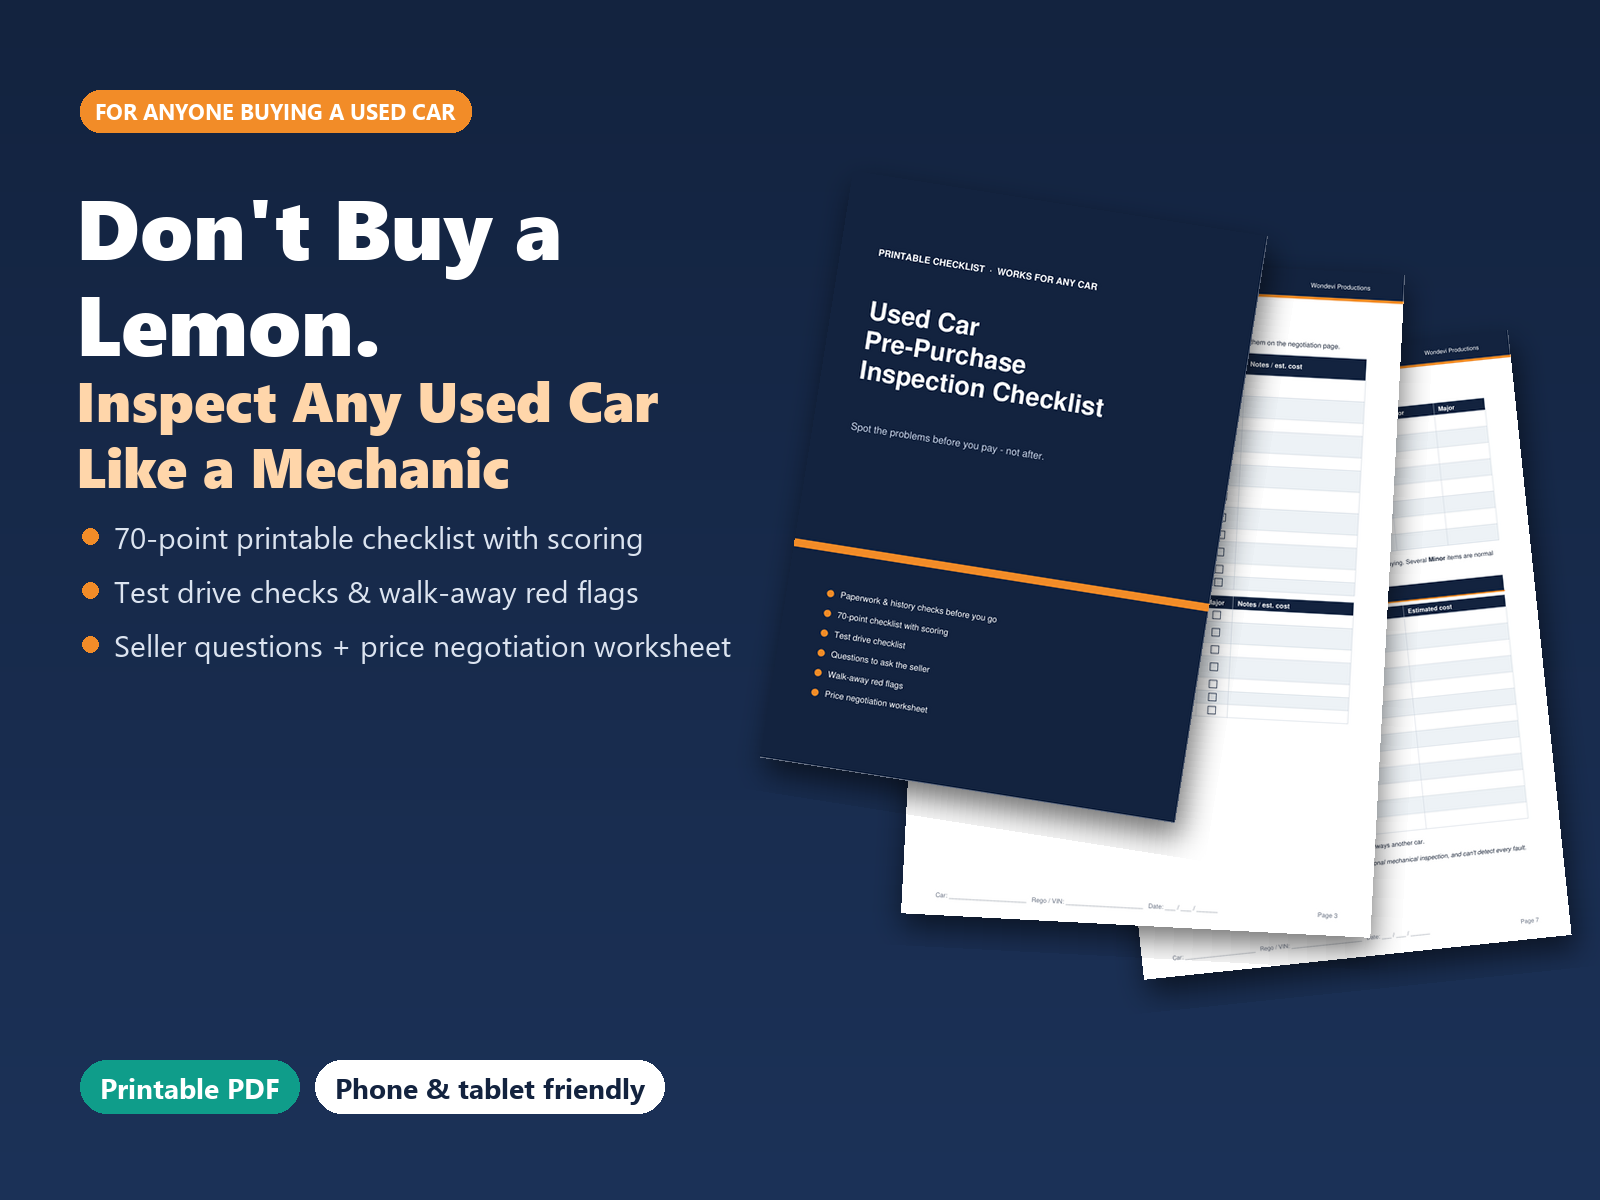
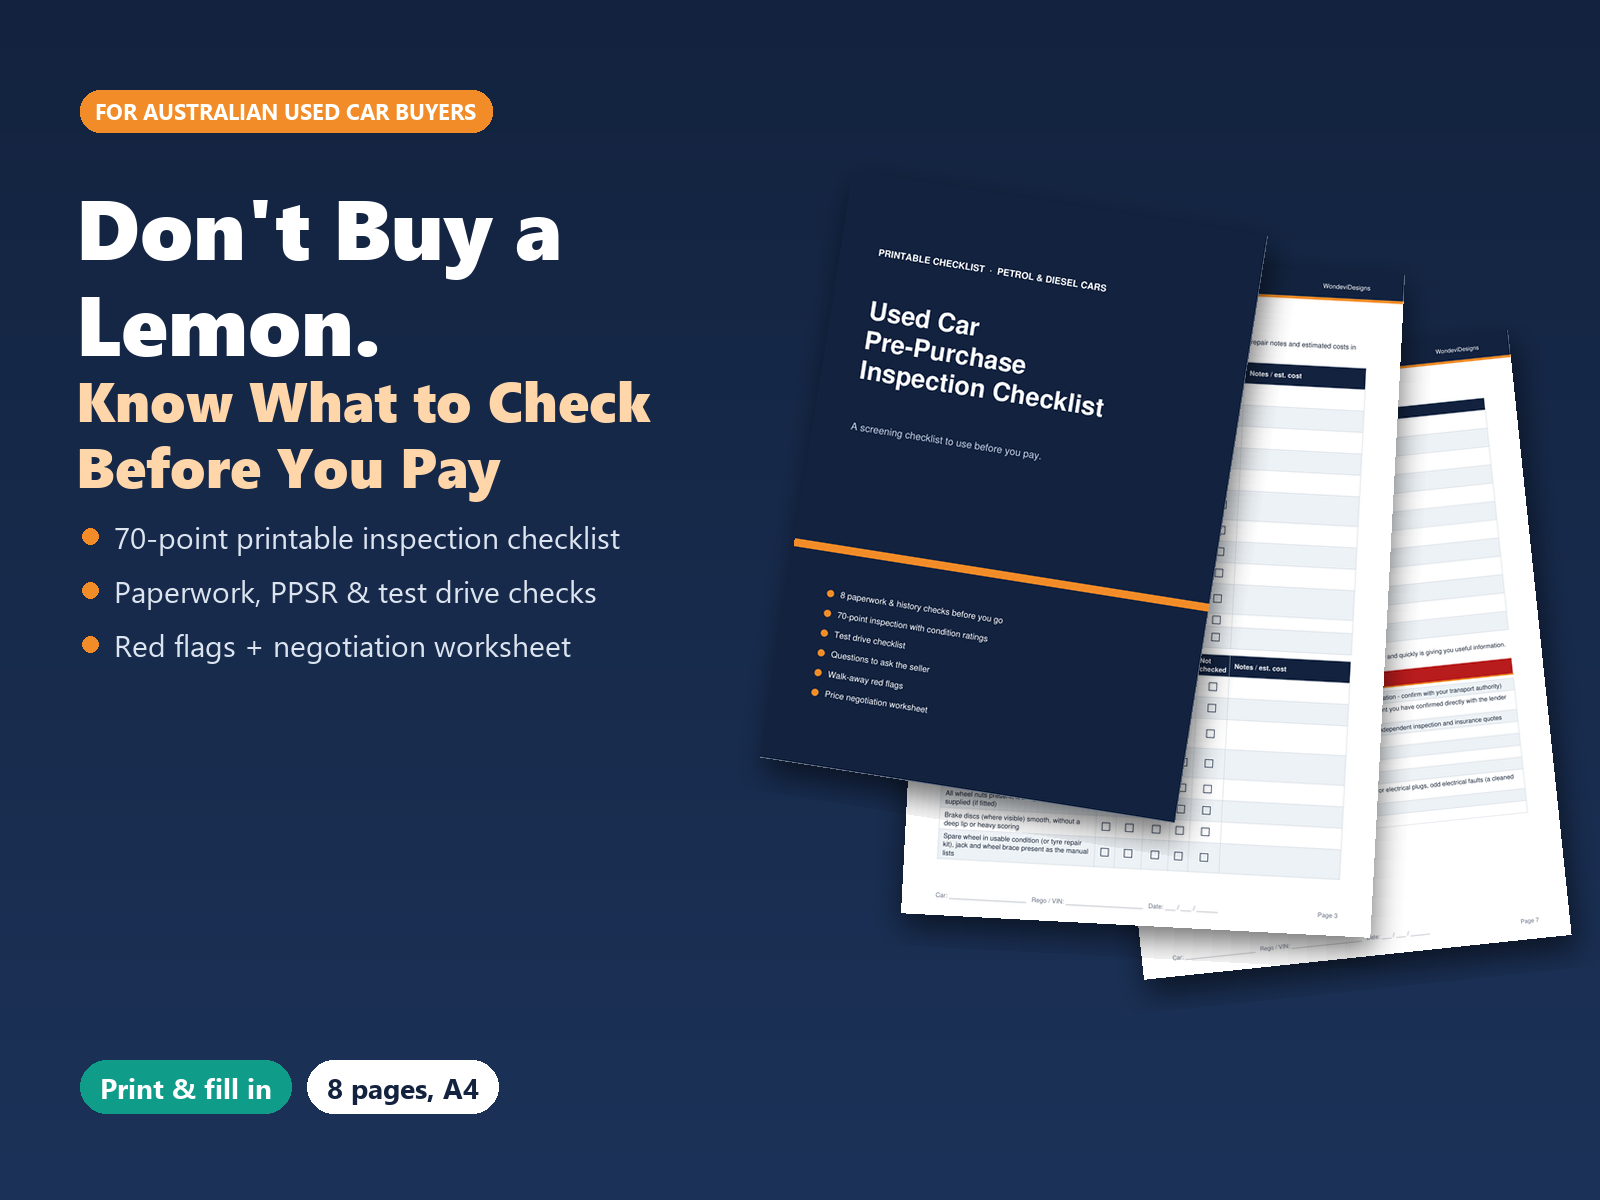
Used car pages: replace old cover (removed 'like a mechanic'/'phone & tablet' claims) with audited v5 cover; buy box text matches audited listing (8-page A4, 70-point, Australia)

diff --git a/used-car-test-drive-checklist.html b/used-car-test-drive-checklist.html
@@ -33,9 +33,9 @@ footer{color:var(--muted);font-size:14px;padding:30px 20px;border-top:1px solid 
 <p class="lead">A test drive of 20 minutes or more, including some highway driving, reveals problems you'll never see standing in a driveway. Use these 13 checks every time, and ask to start the car cold.</p>
 <table><tr><th></th><th>Check</th><th>What good looks like</th></tr><tr><td>&#9744;</td><td><b>Before you start</b></td><td>Check the engine is cold. Look for warning lights when you turn the key, and make sure they go out once it starts.</td></tr><tr><td>&#9744;</td><td><b>Pulling away</b></td><td>It should move off smoothly with no slipping, juddering or clunks.</td></tr><tr><td>&#9744;</td><td><b>Gear changes</b></td><td>Automatics: smooth changes with no flaring, slipping or harsh thumps. Manuals: no grinding, and the clutch shouldn't bite very high.</td></tr><tr><td>&#9744;</td><td><b>Steering</b></td><td>Straight line on a flat road with no pulling, and no heavy knocks at full lock.</td></tr><tr><td>&#9744;</td><td><b>Brakes</b></td><td>Stops straight with no pulsing, grinding or squeal. Test a firm stop where it's safe.</td></tr><tr><td>&#9744;</td><td><b>Suspension</b></td><td>No clunks or rattles over speed bumps and rough roads.</td></tr><tr><td>&#9744;</td><td><b>Highway speed</b></td><td>No vibration through the wheel or seat at 100 km/h.</td></tr><tr><td>&#9744;</td><td><b>Noises</b></td><td>No whine, hum or drone that rises with speed (wheel bearings, differential).</td></tr><tr><td>&#9744;</td><td><b>Engine</b></td><td>Smooth acceleration with no hesitation or misfire, and no smoke in the mirror.</td></tr><tr><td>&#9744;</td><td><b>Temperature</b></td><td>The gauge settles in the middle and stays there.</td></tr><tr><td>&#9744;</td><td><b>Hill start</b></td><td>The handbrake holds the car on a slope.</td></tr><tr><td>&#9744;</td><td><b>Electrics</b></td><td>Air con blows cold. Check cruise control, indicators and the reversing camera.</td></tr><tr><td>&#9744;</td><td><b>After the drive</b></td><td>Look under the car for fresh drips, smell for burning, and check for smoke at idle.</td></tr></table>
 <p>The test drive is only one part. Paperwork, rust, leaks and crash repairs need checking too. See the <a href="used-car-inspection-checklist.html">15-point used car inspection checklist</a>.</p>
-<div class="cta"><img src="car-cover.png" alt="Used car pre-purchase inspection checklist printable PDF" loading="lazy">
+<div class="cta"><img src="car-cover.png" alt="Used car pre-purchase inspection checklist, printable 8-page A4 PDF for Australian buyers" loading="lazy">
 <div><h2 style="color:#fff;margin-top:0">Take the full checklist with you</h2>
-<p>The printable <b>Used Car Pre-Purchase Inspection Checklist</b> (A$9) has paperwork and history checks, a scored inspection with OK / Minor / Major ratings, 12 questions to ask the seller, walk-away red flags and a price negotiation worksheet. It's a 7-page PDF. It does not replace a mechanic's inspection.</p>
+<p>The printable <b>Used Car Pre-Purchase Inspection Checklist</b> (A$9, 8-page A4 PDF) has 8 paperwork and history checks (including PPSR), a 70-point inspection you rate OK, Minor or Major, questions to ask the seller, walk-away red flags and a price negotiation worksheet. Made for petrol and diesel cars, utes and SUVs in Australia. A screening tool, not a replacement for a professional pre-purchase inspection.</p>
 <a class="btn" href="https://wondevi.gumroad.com/l/used-car-inspection-checklist" rel="nofollow">Get the checklist - A$9</a></div></div></main>
 <footer><div class="wrap">&copy; Wondevi Productions. Free tools and guides for mobile mechanics, tradies and sole traders. Figures are examples. Check your own costs, and your tax obligations with your accountant.</div></footer>
 <script data-goatcounter="https://wondeviproductions.goatcounter.com/count" async src="//gc.zgo.at/count.js"></script><script>document.addEventListener("click",function(e){var a=e.target.closest&&e.target.closest('a[href*="payhip.com/b/"],a[href*="gumroad.com/l/"],a[href*="etsy.com/listing"],a[href*="etsy.com/shop"]');if(a&&window.goatcounter&&goatcounter.count)goatcounter.count({path:"buy-click/"+a.href.split("//")[1].split("?")[0],title:(a.textContent||"").trim().slice(0,80),event:true})});</script></body></html>

diff --git a/used-car-inspection-checklist.html b/used-car-inspection-checklist.html
@@ -36,9 +36,9 @@ footer{color:var(--muted);font-size:14px;padding:30px 20px;border-top:1px solid 
 <ul><li>A torch (for under the car and the engine bay)</li><li>Paper towel (to check oil and fluid colour)</li><li>Your phone (photos of faults, VIN and service book)</li><li>A friend - one of you talks to the seller while the other inspects</li></ul>
 <h2>When to get a professional inspection</h2>
 <p>If you find anything serious, such as smoke, a slipping gearbox, structural rust, or money owing on the car, either get a mechanic's pre-purchase inspection before you pay or walk away. There is always another car.</p>
-<div class="cta"><img src="car-cover.png" alt="Used car pre-purchase inspection checklist printable PDF" loading="lazy">
+<div class="cta"><img src="car-cover.png" alt="Used car pre-purchase inspection checklist, printable 8-page A4 PDF for Australian buyers" loading="lazy">
 <div><h2 style="color:#fff;margin-top:0">Take the full checklist with you</h2>
-<p>The printable <b>Used Car Pre-Purchase Inspection Checklist</b> (A$9) has paperwork and history checks, a scored inspection with OK / Minor / Major ratings, 12 questions to ask the seller, walk-away red flags and a price negotiation worksheet. It's a 7-page PDF. It does not replace a mechanic's inspection.</p>
+<p>The printable <b>Used Car Pre-Purchase Inspection Checklist</b> (A$9, 8-page A4 PDF) has 8 paperwork and history checks (including PPSR), a 70-point inspection you rate OK, Minor or Major, questions to ask the seller, walk-away red flags and a price negotiation worksheet. Made for petrol and diesel cars, utes and SUVs in Australia. A screening tool, not a replacement for a professional pre-purchase inspection.</p>
 <a class="btn" href="https://wondevi.gumroad.com/l/used-car-inspection-checklist" rel="nofollow">Get the checklist - A$9</a></div></div></main>
 <footer><div class="wrap">&copy; Wondevi Productions. Free tools and guides for mobile mechanics, tradies and sole traders. Figures are examples. Check your own costs, and your tax obligations with your accountant.</div></footer>
 <script data-goatcounter="https://wondeviproductions.goatcounter.com/count" async src="//gc.zgo.at/count.js"></script><script>document.addEventListener("click",function(e){var a=e.target.closest&&e.target.closest('a[href*="payhip.com/b/"],a[href*="gumroad.com/l/"],a[href*="etsy.com/listing"],a[href*="etsy.com/shop"]');if(a&&window.goatcounter&&goatcounter.count)goatcounter.count({path:"buy-click/"+a.href.split("//")[1].split("?")[0],title:(a.textContent||"").trim().slice(0,80),event:true})});</script></body></html>
